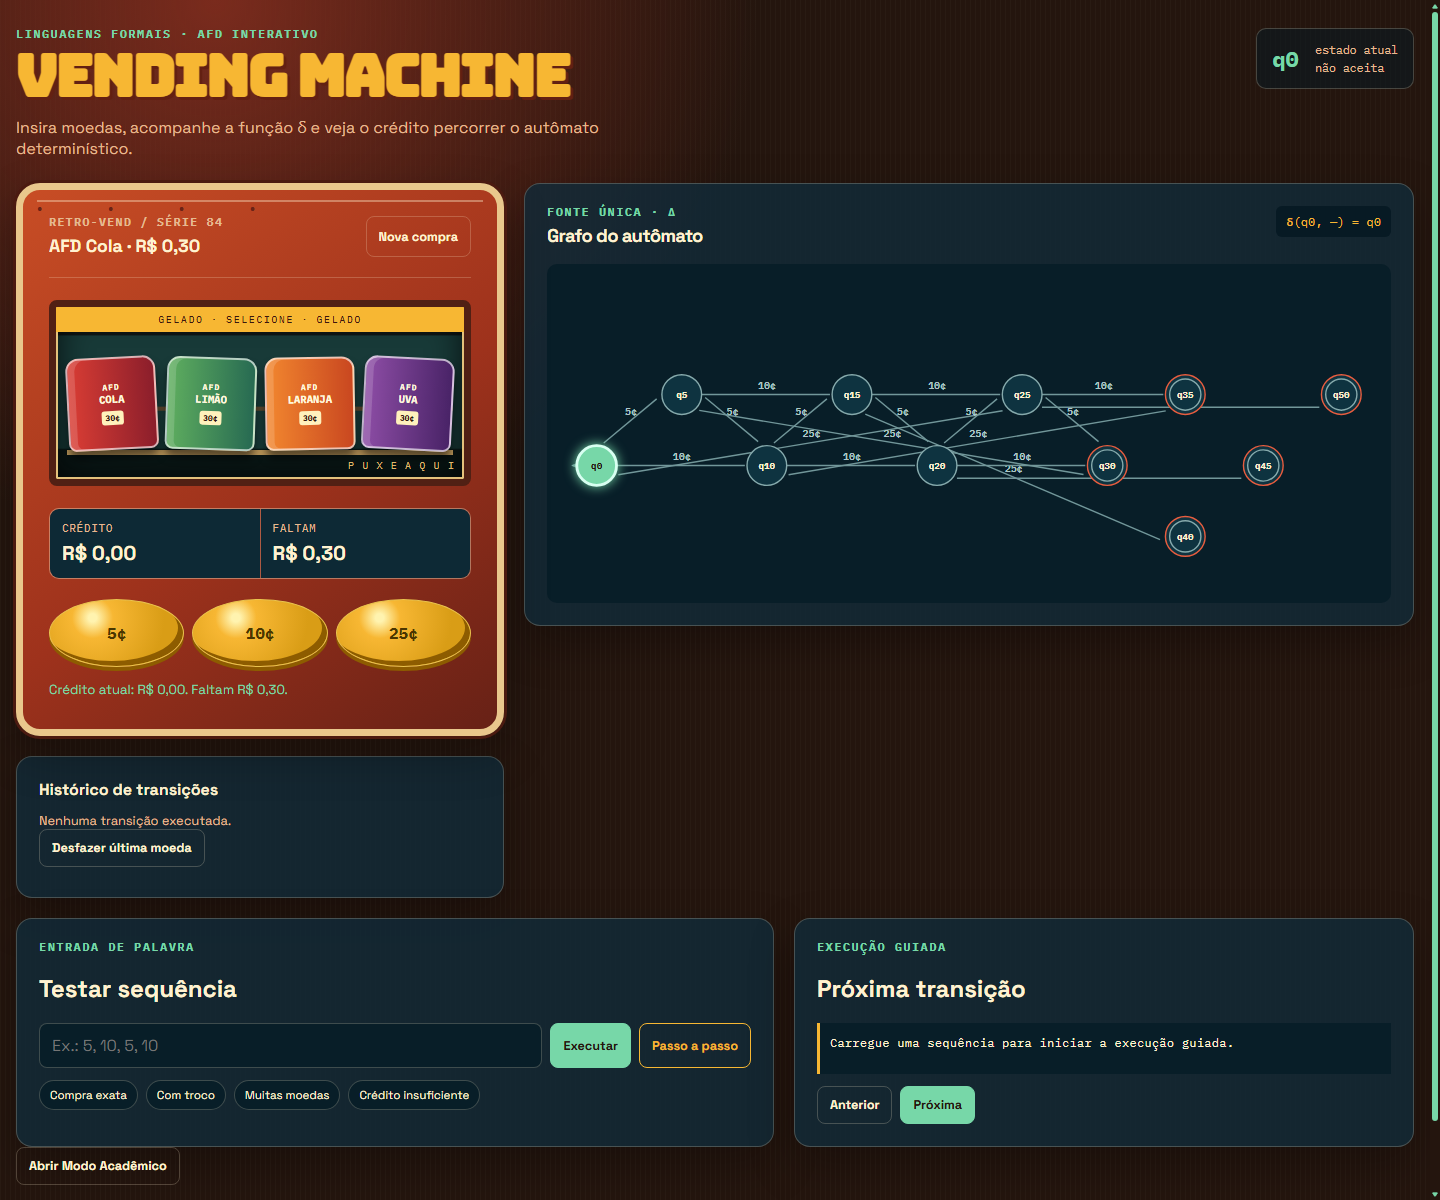
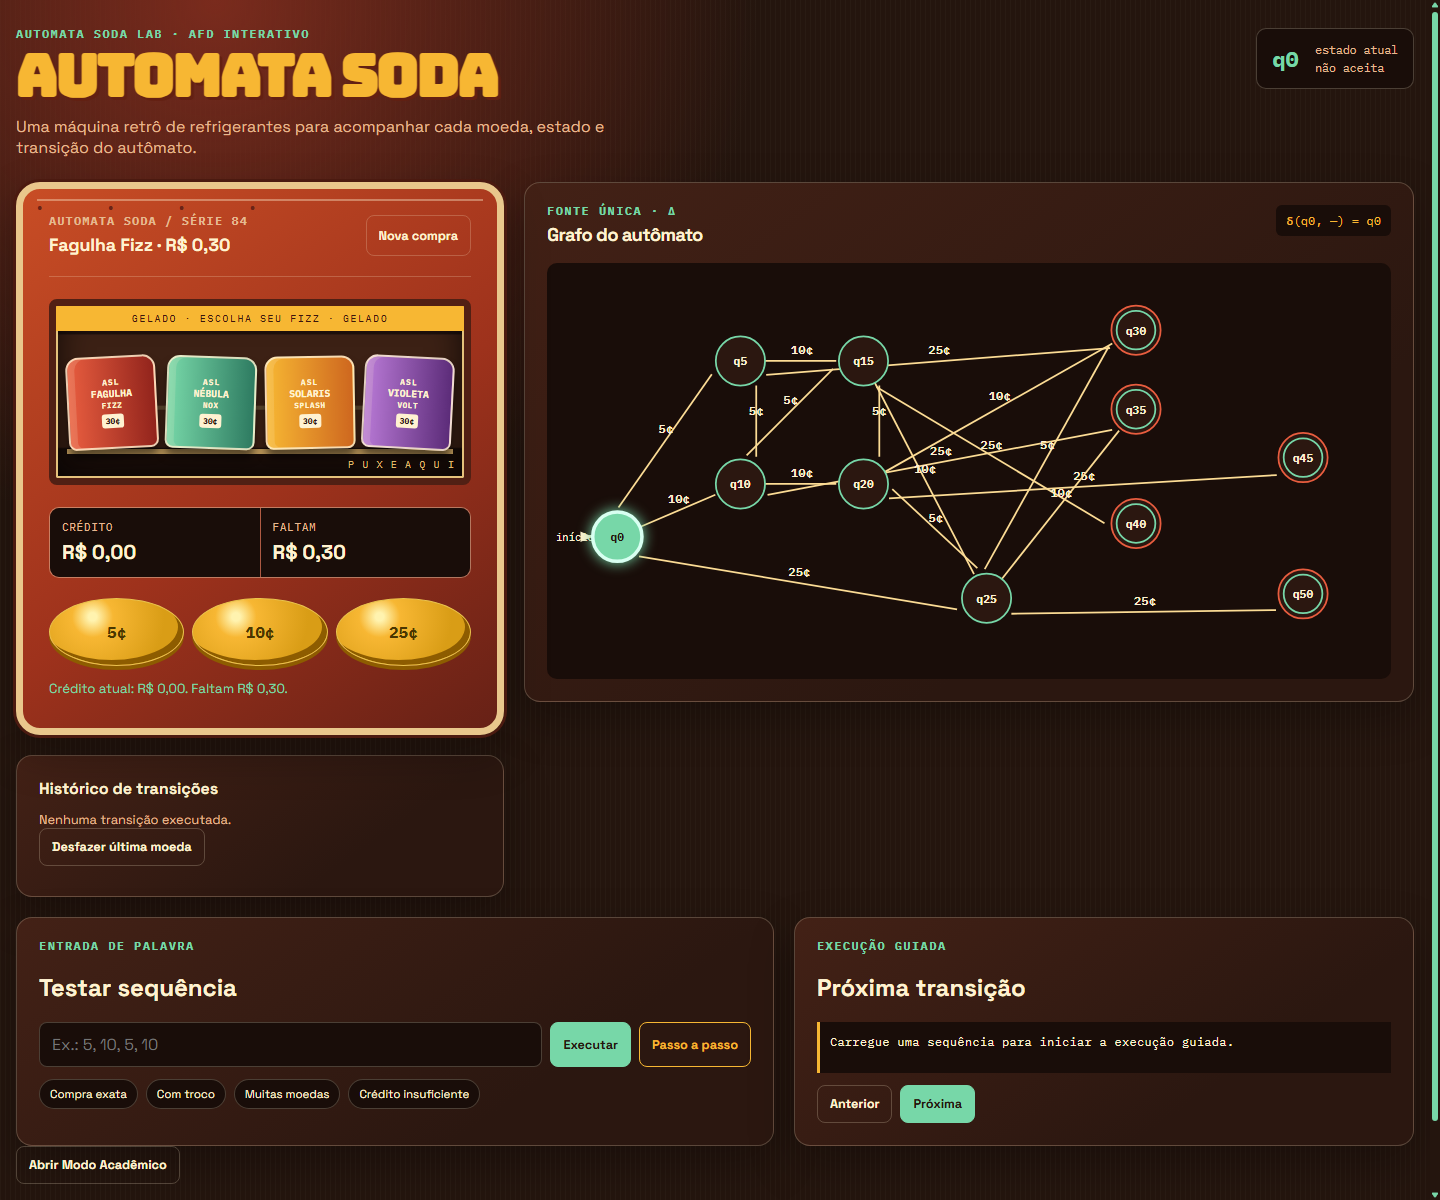
feat: brand the soda machine and unify palette

diff --git a/css/layout.css b/css/layout.css
@@ -4,7 +4,7 @@ body { min-height: 100vh; overflow-x: hidden; background: radial-gradient(circle
 .eyebrow, .section-kicker { margin: 0 0 6px; color: var(--mint); font: 700 .74rem/1 var(--mono); letter-spacing: .13em; text-transform: uppercase; }
 h1 { margin: 0; font-family: var(--retro); font-size: clamp(1.8rem, 4.4vw, 3.65rem); letter-spacing: -.045em; line-height: 1; color: var(--amber); text-shadow: 3px 3px 0 #632012; }
 .subtitle { margin: 12px 0 0; max-width: 610px; color: var(--muted); }
-.live-state { display: grid; grid-template-columns: auto auto; gap: 3px 16px; padding: 13px 15px; min-width: 156px; border: 1px solid var(--line); border-radius: 10px; background: rgb(8 25 35 / .55); font-family: var(--mono); }
+.live-state { display: grid; grid-template-columns: auto auto; gap: 3px 16px; padding: 13px 15px; min-width: 156px; border: 1px solid var(--line); border-radius: 10px; background: var(--cocoa-deep); font-family: var(--mono); }
 .live-state span { color: var(--muted); font-size: .72rem; }
 .live-state strong { grid-row: span 2; align-self: center; font-size: 1.4rem; color: var(--mint); }
 .workspace { display: grid; grid-template-columns: minmax(330px, .85fr) minmax(0, 1.55fr); gap: 20px; align-items: start; }
@@ -15,36 +15,36 @@ h1 { margin: 0; font-family: var(--retro); font-size: clamp(1.8rem, 4.4vw, 3.65r
 .machine-top { display: flex; justify-content: space-between; gap: 10px; padding-bottom: 20px; border-bottom: 1px solid var(--line); }
 .machine-label { margin: 0; font: 700 .72rem/1 var(--mono); letter-spacing: .12em; color: var(--muted); }
 .machine-price { margin: 7px 0 0; font-size: 1.1rem; font-weight: 700; }
-.product-window { position: relative; min-height: 186px; margin: 22px 0; overflow: hidden; border: 7px solid #512014; border-radius: 8px; background: linear-gradient(180deg, #0e1514 0 16%, #183a38 17% 82%, #0a1716 83%); box-shadow: inset 0 0 0 2px #e4c27c, inset 0 0 34px #000c; }
+.product-window { position: relative; min-height: 186px; margin: 22px 0; overflow: hidden; border: 7px solid #512014; border-radius: 8px; background: linear-gradient(180deg, #1e100c 0 16%, #3c2115 17% 82%, #190d09 83%); box-shadow: inset 0 0 0 2px #e4c27c, inset 0 0 34px #000c; }
 .product-window::after { content: "P U X E  A Q U I"; position: absolute; right: 9px; bottom: 7px; color: #dfb76e; font: .62rem var(--mono); letter-spacing: .12em; }
 .marquee { margin: 0; padding: 6px; color: #3b160d; background: var(--amber); text-align: center; font: .62rem var(--mono); letter-spacing: .16em; }
 .product-shelf { position: absolute; inset: 41px 11px 24px; display: grid; grid-template-columns: repeat(4, 1fr); align-items: end; gap: 9px; border-bottom: 5px solid #bb9659; background: linear-gradient(180deg, transparent 57%, #5e492f 58% 61%, transparent 62%); }
-.product { display: grid; place-items: center; align-content: center; height: 93px; border: 2px solid rgb(255 255 255 / .65); border-radius: 13px 13px 8px 8px; color: #fff8df; box-shadow: inset 7px 0 rgb(255 255 255 / .16), 0 8px 9px #0008; transform: rotate(var(--tilt, 0deg)); }
-.product span { font: 700 .5rem var(--mono); letter-spacing: .13em; }.product b { font: 800 .66rem var(--mono); }.product i { margin-top: 5px; padding: 2px 4px; border-radius: 3px; color: #2d160e; background: #fff1bc; font: 700 .5rem var(--mono); font-style: normal; }
-.product--cola { --tilt: -3deg; background: linear-gradient(90deg, #d93d34, #8b1e2b); }.product--lime { --tilt: 2deg; background: linear-gradient(90deg, #5fae5f, #276a52); }.product--orange { --tilt: -1deg; background: linear-gradient(90deg, #f2872f, #c94720); }.product--grape { --tilt: 3deg; background: linear-gradient(90deg, #8d4da5, #492367); }
+.product { display: grid; place-items: center; align-content: center; height: 93px; border: 2px solid rgb(255 242 209 / .82); border-radius: 13px 13px 8px 8px; color: var(--paper); box-shadow: inset 7px 0 rgb(255 242 209 / .16), 0 8px 9px #0008; transform: rotate(var(--tilt, 0deg)); }
+.product span { font: 700 .5rem var(--mono); letter-spacing: .13em; }.product b { font: 800 .61rem var(--mono); }.product em { font: 700 .48rem var(--mono); letter-spacing: .08em; font-style: normal; }.product i { margin-top: 4px; padding: 2px 4px; border-radius: 3px; color: var(--cocoa); background: var(--paper); font: 700 .5rem var(--mono); font-style: normal; }
+.product--fagulha { --tilt: -3deg; background: linear-gradient(90deg, var(--coral), #92241c); }.product--nebula { --tilt: 2deg; background: linear-gradient(90deg, var(--mint), #2e7b61); }.product--solaris { --tilt: -1deg; background: linear-gradient(90deg, var(--amber), #ce671f); }.product--violeta { --tilt: 3deg; background: linear-gradient(90deg, var(--grape), #5c2c79); }
 .product-release { position: absolute; left: 50%; bottom: -118px; z-index: 2; transform: translateX(-50%); }.can { display: grid; place-items: center; width: 80px; height: 104px; border: 2px solid #fff0c2; border-radius: 17px 17px 12px 12px; background: linear-gradient(90deg, #ecdbbb 0 14%, #d93d34 15% 80%, #8b1e2b); color: #fff8df; font: 800 .8rem/1 var(--mono); letter-spacing: .08em; box-shadow: 0 12px 15px #0008; }.machine.is-vended .product-release { bottom: 3px; animation: dispense-product .75s cubic-bezier(.2,.8,.2,1) both; }
 .credit-grid { display: grid; grid-template-columns: 1fr 1fr; gap: 1px; overflow: hidden; border: 1px solid var(--line); border-radius: 10px; background: var(--line); }
-.credit-grid > div { padding: 12px; background: #0d2935; }
+.credit-grid > div { padding: 12px; background: var(--cocoa-deep); }
 .credit-grid span { display: block; color: var(--muted); font: .67rem var(--mono); text-transform: uppercase; letter-spacing: .08em; }
 .credit-grid strong { display: block; margin-top: 5px; font-size: 1.25rem; }
 .coin-bank { display: grid; grid-template-columns: repeat(3, 1fr); gap: 8px; margin-top: 20px; }
 .graph-column { display: grid; gap: 20px; }
-.graph-panel, .history-panel, .sequence-panel, .academic-panel { padding: 22px; border: 1px solid var(--line); border-radius: var(--radius); background: rgb(16 43 58 / .8); box-shadow: var(--shadow); }
+.graph-panel, .history-panel, .sequence-panel, .academic-panel { padding: 22px; border: 1px solid var(--line); border-radius: var(--radius); background: linear-gradient(145deg, #432116, var(--cocoa) 70%); box-shadow: var(--shadow); }
 .panel-heading { display: flex; justify-content: space-between; gap: 16px; align-items: start; margin-bottom: 17px; }
 .panel-heading h2, .academic-panel h2 { margin: 0; font-size: 1.15rem; letter-spacing: -.035em; }
-.delta-readout { padding: 8px 10px; border-radius: 6px; background: #071a24; color: var(--amber); font: .76rem var(--mono); white-space: nowrap; }
-.graph-frame { overflow: auto; padding: 10px 0; border-radius: 10px; background: #081e28; }
+.delta-readout { padding: 8px 10px; border-radius: 6px; background: var(--cocoa-deep); color: var(--amber); font: .76rem var(--mono); white-space: nowrap; }
+.graph-frame { overflow: auto; padding: 10px 0; border-radius: 10px; background: var(--cocoa-deep); }
 .history-panel { min-height: 142px; }
 .history-panel h2 { margin: 0 0 12px; font-size: 1rem; }
 .sequence-grid { display: grid; grid-template-columns: minmax(0, 1.1fr) .9fr; gap: 20px; margin-top: 20px; }
 .sequence-form { display: flex; gap: 8px; }
-.sequence-form input { min-width: 0; flex: 1; border: 1px solid var(--line); border-radius: 8px; padding: 11px 12px; color: var(--paper); background: #081e28; }
+.sequence-form input { min-width: 0; flex: 1; border: 1px solid var(--line); border-radius: 8px; padding: 11px 12px; color: var(--paper); background: var(--cocoa-deep); }
 .examples { display: flex; flex-wrap: wrap; gap: 8px; margin-top: 12px; }
 .step-controls { display: flex; gap: 8px; margin-top: 12px; }
-.step-status { min-height: 51px; margin: 0; padding: 10px; border-left: 3px solid var(--amber); background: #081e28; color: var(--paper); font: .78rem/1.45 var(--mono); }
+.step-status { min-height: 51px; margin: 0; padding: 10px; border-left: 3px solid var(--amber); background: var(--cocoa-deep); color: var(--paper); font: .78rem/1.45 var(--mono); }
 .academic-panel { margin-top: 20px; }
 .academic-panel[hidden] { display: none; }
-.formal-line { margin: 14px 0; padding: 13px; border-radius: 8px; background: #081e28; color: var(--mint); font-family: var(--mono); overflow: auto; }
+.formal-line { margin: 14px 0; padding: 13px; border-radius: 8px; background: var(--cocoa-deep); color: var(--mint); font-family: var(--mono); overflow: auto; }
 .academic-grid { display: grid; grid-template-columns: .8fr 1.2fr; gap: 20px; }
 .formal-details { display: grid; gap: 8px; margin: 0; }
 .formal-details div { display: grid; grid-template-columns: 90px 1fr; gap: 10px; }

diff --git a/index.html b/index.html
@@ -16,9 +16,9 @@
     <main class="app-shell">
       <header class="topbar">
         <div>
-          <p class="eyebrow">Linguagens Formais · AFD interativo</p>
-          <h1>Vending Machine</h1>
-          <p class="subtitle">Insira moedas, acompanhe a função δ e veja o crédito percorrer o autômato determinístico.</p>
+          <p class="eyebrow">AUTOMATA SODA LAB · AFD INTERATIVO</p>
+          <h1>Automata Soda</h1>
+          <p class="subtitle">Uma máquina retrô de refrigerantes para acompanhar cada moeda, estado e transição do autômato.</p>
         </div>
         <div class="live-state" aria-label="Estado da simulação"><strong id="header-state">q0</strong><span>estado atual</span><span id="header-status">não aceita</span></div>
       </header>
@@ -26,8 +26,8 @@
       <section class="workspace" aria-label="Simulador da vending machine">
         <div class="machine-column">
           <section class="machine" id="machine" aria-labelledby="machine-title">
-            <div class="machine-top"><div><p class="machine-label">RETRO-VEND / SÉRIE 84</p><p class="machine-price" id="machine-title">AFD Cola · R$ 0,30</p></div><button class="button" id="reset-button" type="button">Nova compra</button></div>
-            <div class="product-window" aria-label="Vitrine com produtos disponíveis"><p class="marquee">GELADO · SELECIONE · GELADO</p><div class="product-shelf"><div class="product product--cola"><span>AFD</span><b>COLA</b><i>30¢</i></div><div class="product product--lime"><span>AFD</span><b>LIMÃO</b><i>30¢</i></div><div class="product product--orange"><span>AFD</span><b>LARANJA</b><i>30¢</i></div><div class="product product--grape"><span>AFD</span><b>UVA</b><i>30¢</i></div></div><div class="product-release" aria-hidden="true"><div class="can">AFD<br>COLA</div></div></div>
+            <div class="machine-top"><div><p class="machine-label">AUTOMATA SODA / SÉRIE 84</p><p class="machine-price" id="machine-title">Fagulha Fizz · R$ 0,30</p></div><button class="button" id="reset-button" type="button">Nova compra</button></div>
+            <div class="product-window" aria-label="Vitrine com refrigerantes Automata Soda"><p class="marquee">GELADO · ESCOLHA SEU FIZZ · GELADO</p><div class="product-shelf"><div class="product product--fagulha"><span>ASL</span><b>FAGULHA</b><em>FIZZ</em><i>30¢</i></div><div class="product product--nebula"><span>ASL</span><b>NÉBULA</b><em>NOX</em><i>30¢</i></div><div class="product product--solaris"><span>ASL</span><b>SOLARIS</b><em>SPLASH</em><i>30¢</i></div><div class="product product--violeta"><span>ASL</span><b>VIOLETA</b><em>VOLT</em><i>30¢</i></div></div><div class="product-release" aria-hidden="true"><div class="can">FAGULHA<br>FIZZ</div></div></div>
             <div class="credit-grid"><div><span>crédito</span><strong id="credit">R$ 0,00</strong></div><div><span id="balance-label">faltam</span><strong id="balance">R$ 0,30</strong></div></div>
             <div class="coin-bank" aria-label="Inserir moeda">
               <button class="coin" type="button" data-coin="5" aria-label="Inserir moeda de 5 centavos">5¢</button>
@@ -51,7 +51,7 @@
 
       <section class="academic-panel" id="academic-panel" hidden aria-labelledby="academic-title"><div class="panel-heading"><div><p class="section-kicker">Leitura formal</p><h2 id="academic-title">Modo Acadêmico</h2></div></div><p class="formal-line">M = (Q, Σ, δ, q0, F)</p><div class="academic-grid"><dl class="formal-details" id="formal-details"></dl><div class="table-wrap"><table class="transition-table"><thead><tr><th>Estado</th><th>+5¢</th><th>+10¢</th><th>+25¢</th></tr></thead><tbody id="transition-table-body"></tbody></table></div></div></section>
       <button class="button" id="academic-toggle" type="button" aria-expanded="false" aria-controls="academic-panel">Abrir Modo Acadêmico</button>
-      <p class="footer-note">AFD para produto de R$ 0,30 · estados finais: q30, q35, q40, q45, q50 · autores: Lucas Costa e Silva e Benvindo.</p>
+      <p class="footer-note">Automata Soda Lab · AFD para produto de R$ 0,30 · estados finais: q30, q35, q40, q45, q50 · autores: Lucas Costa e Silva e Benvindo.</p>
     </main>
     <script type="module" src="src/app.js"></script>
   </body>

diff --git a/css/components.css b/css/components.css
@@ -9,7 +9,7 @@
 .button--primary:hover:not(:disabled) { background: #9af1ce; }
 .button--amber { border-color: var(--amber); color: var(--amber); }
 .button--active { background: var(--paper); color: var(--ink); }
-.example { border: 1px solid var(--line); border-radius: 999px; padding: 7px 10px; color: var(--paper); background: #081e28; font-size: .72rem; }
+.example { border: 1px solid var(--line); border-radius: 999px; padding: 7px 10px; color: var(--paper); background: var(--cocoa-deep); font-size: .72rem; }
 .example:hover { border-color: var(--mint); color: var(--mint); }
 .status-message { min-height: 22px; margin: 14px 0 0; color: var(--mint); font-size: .82rem; }
 .sr-only { position: absolute; width: 1px; height: 1px; padding: 0; margin: -1px; overflow: hidden; clip: rect(0, 0, 0, 0); white-space: nowrap; border: 0; }
@@ -21,17 +21,17 @@
 .history-list b { color: var(--amber); font: .72rem var(--mono); }
 .empty-history { margin: 0; color: var(--muted); font-size: .8rem; }
 .automaton-graph { display: block; min-width: 760px; width: 100%; height: auto; }
-.automaton-graph .edge path { stroke: #72979a; stroke-width: 2; fill: none; marker-end: var(--arrow); transition: stroke .25s, stroke-width .25s; }
-.automaton-graph marker path { fill: #72979a; }
-.automaton-graph .edge text { fill: #afc8c7; font: 600 14px var(--mono); text-anchor: middle; }
+.automaton-graph .edge path { stroke: color-mix(in srgb, var(--paper) 62%, var(--amber)); stroke-width: 2; fill: none; marker-end: var(--arrow); transition: stroke .25s, stroke-width .25s; }
+.automaton-graph marker path { fill: var(--paper); }
+.automaton-graph .edge text { fill: var(--paper); font: 600 14px var(--mono); text-anchor: middle; }
 .automaton-graph .edge.is-active path { stroke: var(--amber); stroke-width: 5; filter: drop-shadow(0 0 6px var(--amber)); animation: edgePulse .75s ease-out; }
 .automaton-graph .edge.is-active text { fill: var(--amber); }
-.automaton-graph .state circle { fill: #0e3340; stroke: #86aaac; stroke-width: 2; transition: fill .25s, stroke .25s; }
+.automaton-graph .state circle { fill: var(--cocoa); stroke: var(--mint); stroke-width: 2; transition: fill .25s, stroke .25s; }
 .automaton-graph .state.is-final circle:first-child { stroke: var(--coral); }
 .automaton-graph .state text { fill: var(--paper); text-anchor: middle; font: 700 13px var(--mono); }
 .automaton-graph .state.is-current circle { fill: var(--mint); stroke: #d8fff1; stroke-width: 4; filter: drop-shadow(0 0 8px var(--mint)); animation: stateBloom .5s ease-out; }
 .automaton-graph .state.is-current text { fill: var(--ink); }
-.automaton-graph .graph-start { fill: #72979a; font: 12px var(--mono); }
-.automaton-graph .start-arrow { stroke: #72979a; stroke-width: 2; }
+.automaton-graph .graph-start { fill: var(--paper); font: 12px var(--mono); }
+.automaton-graph .start-arrow { stroke: var(--paper); stroke-width: 2; }
 @keyframes edgePulse { 0% { stroke-dasharray: 6 8; } 100% { stroke-dasharray: 1 0; } }
 @keyframes stateBloom { 0% { transform: scale(.8); transform-origin: center; } 100% { transform: scale(1); transform-origin: center; } }

diff --git a/src/app.js b/src/app.js
@@ -36,7 +36,7 @@ function update(snapshot = machine.snapshot(), message = resultText(snapshot), e
   renderAcademic(snapshot);
 }
 function insert(coin, announce = true) {
-  try { const snapshot = machine.insert(coin); update(snapshot, snapshot.accepted ? `PRODUTO LIBERADO · Inserido: ${money(snapshot.credit)} · Troco: ${money(snapshot.change)}` : announce ? `${deltaFor(snapshot)} · crédito atualizado.` : resultText(snapshot)); return snapshot; }
+  try { const snapshot = machine.insert(coin); update(snapshot, snapshot.accepted ? `FAGULHA FIZZ LIBERADA · Inserido: ${money(snapshot.credit)} · Troco: ${money(snapshot.change)}` : announce ? `${deltaFor(snapshot)} · crédito atualizado.` : resultText(snapshot)); return snapshot; }
   catch (error) { update(machine.snapshot(), error.message, true); return null; }
 }
 function renderAcademic(snapshot) {

diff --git a/src/history.js b/src/history.js
@@ -7,6 +7,5 @@ export function renderHistory(snapshot) {
 
 export function resultText(snapshot) {
   if (!snapshot.accepted) return `Crédito atual: ${money(snapshot.credit)}. Faltam ${money(Math.max(0, 30 - snapshot.credit))}.`;
-  return `Aceita — produto liberado. Troco: ${money(snapshot.change)}.`;
+  return `Aceita — Fagulha Fizz liberada. Troco: ${money(snapshot.change)}.`;
 }
-

diff --git a/css/variables.css b/css/variables.css
@@ -7,6 +7,9 @@
   --mint: #77d7a8;
   --amber: #f7b733;
   --coral: #e85d3f;
+  --grape: #b879d5;
+  --cocoa: #2b1710;
+  --cocoa-deep: #190d09;
   --line: color-mix(in srgb, var(--paper) 22%, transparent);
   --shadow: 0 18px 45px rgb(0 0 0 / .28);
   --radius: 16px;

diff --git a/DESIGN.md b/DESIGN.md
@@ -19,7 +19,7 @@ Tipografia: `Bungee` para os letreiros retrô, `Space Grotesk` para interface e 
 
 ## Assinatura
 
-A vitrine de quatro produtos é a assinatura: fica acesa dentro da máquina e o produto AFD Cola é liberado ao aceitar. O grafo ocupa a lateral inteira como instrumento técnico independente da vitrine.
+A vitrine de quatro refrigerantes fictícios é a assinatura: Fagulha Fizz, Nébula Nox, Solaris Splash e Violeta Volt. Fagulha Fizz é liberada ao aceitar. Todos os textos, arestas, estados e superfícies usam a mesma paleta de espresso, cereja, creme, âmbar, menta e uva.
 
 ## Acessibilidade
 
